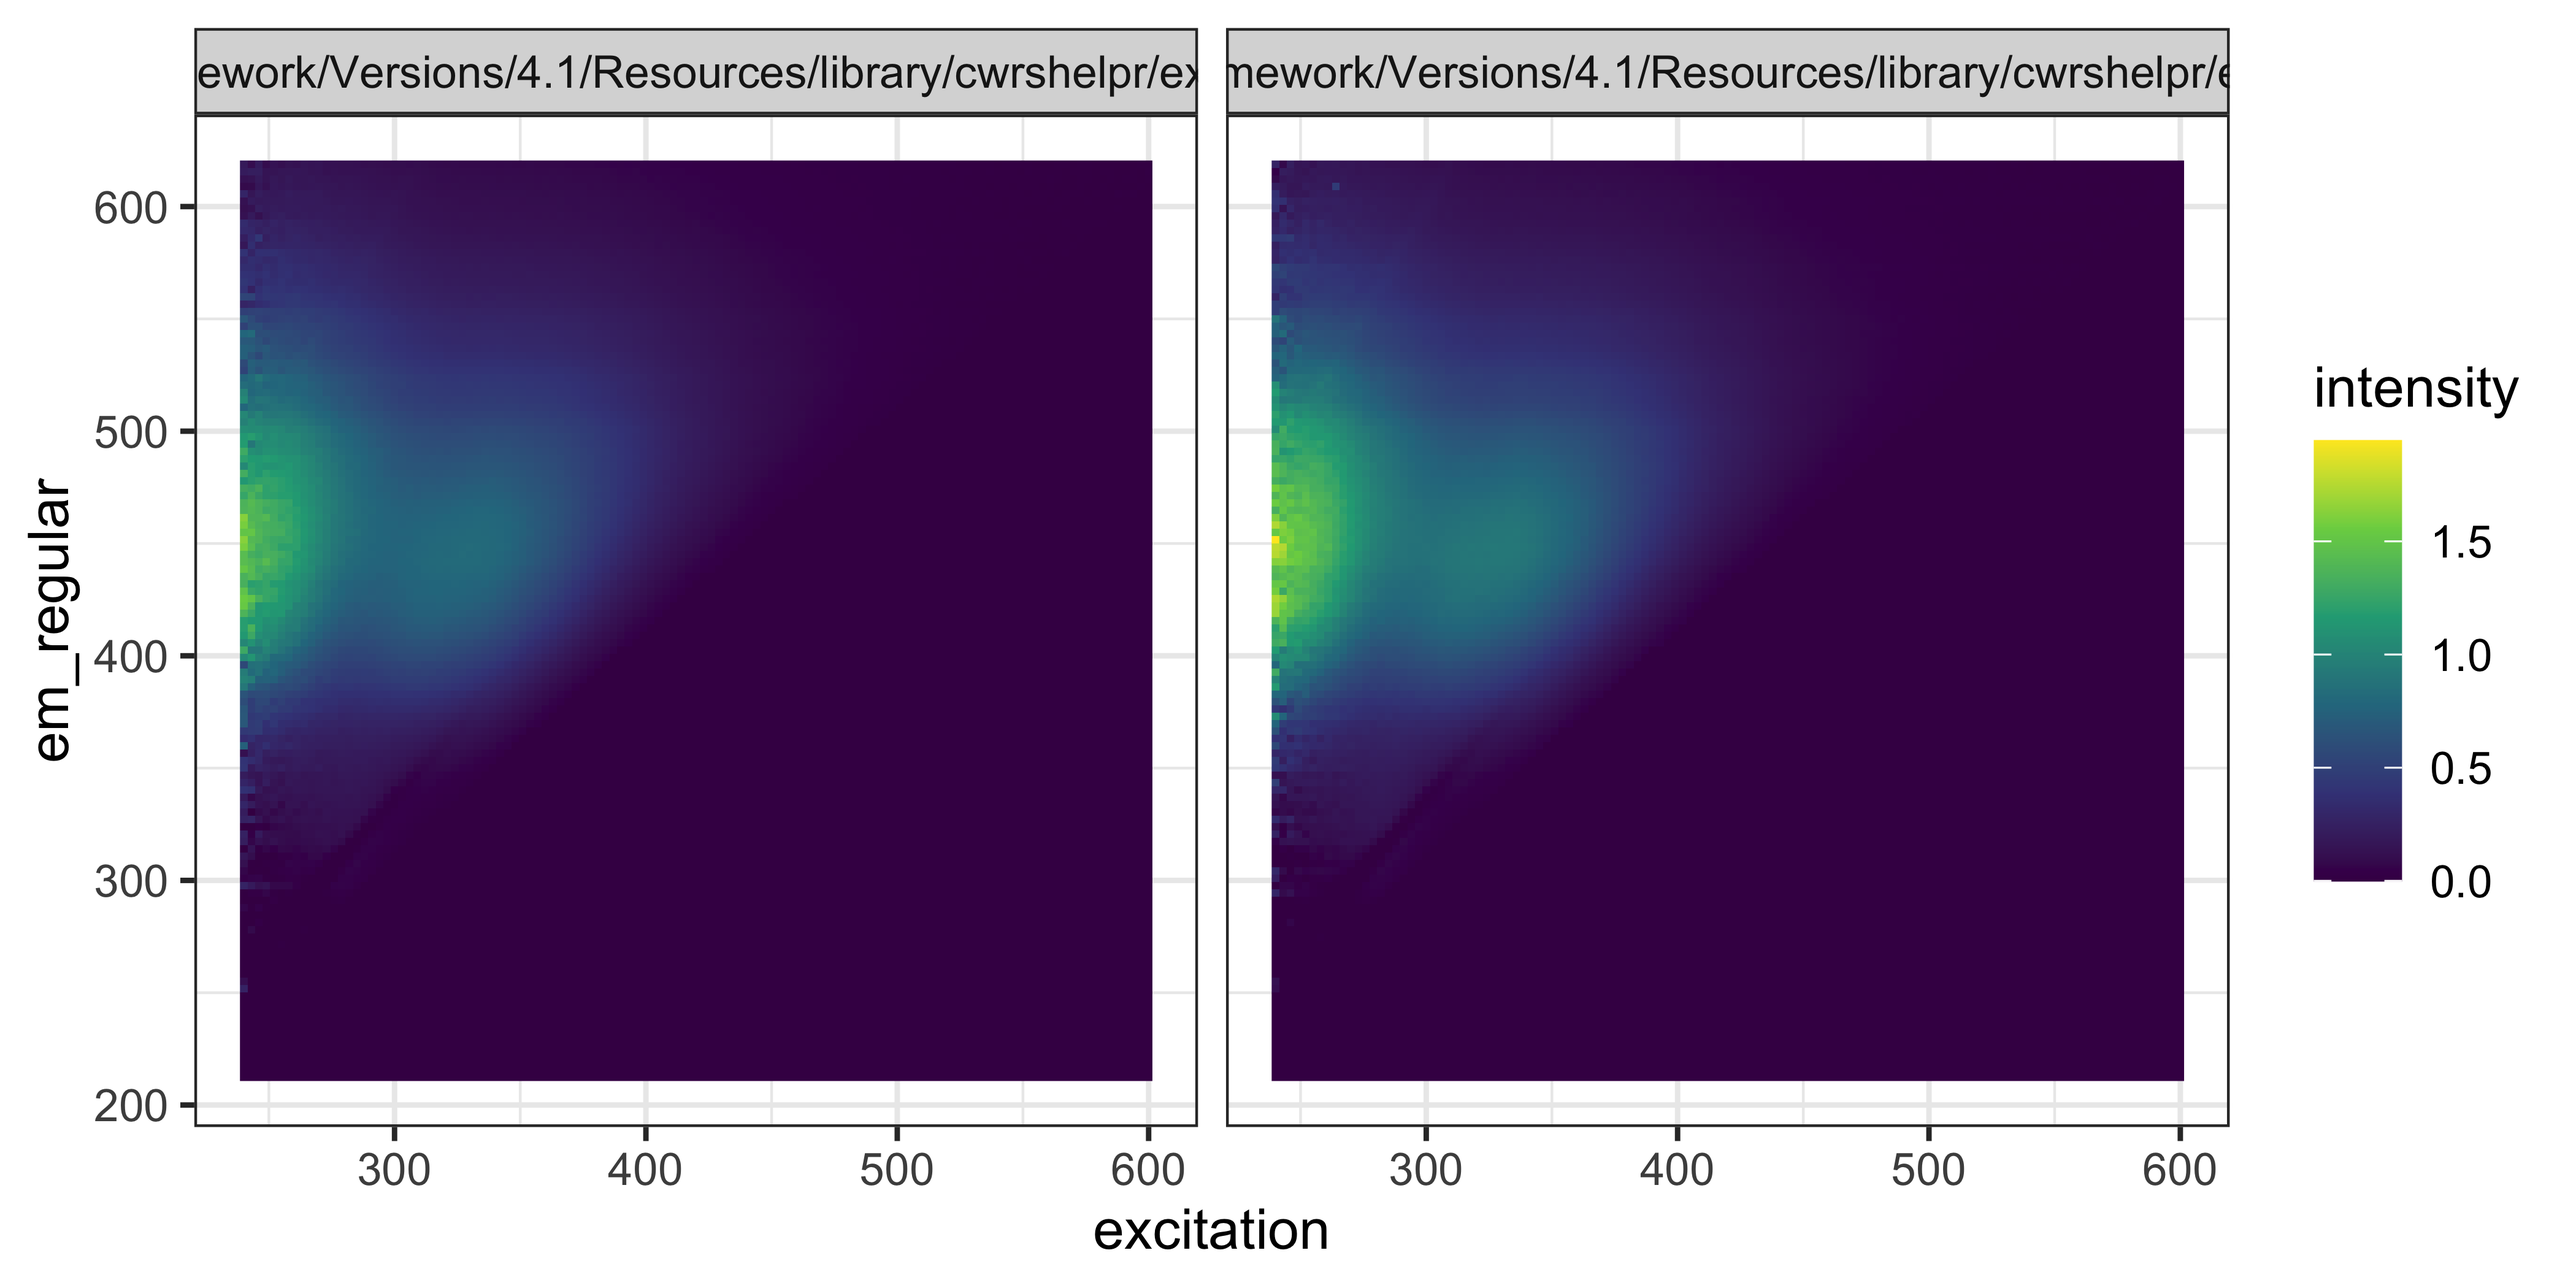
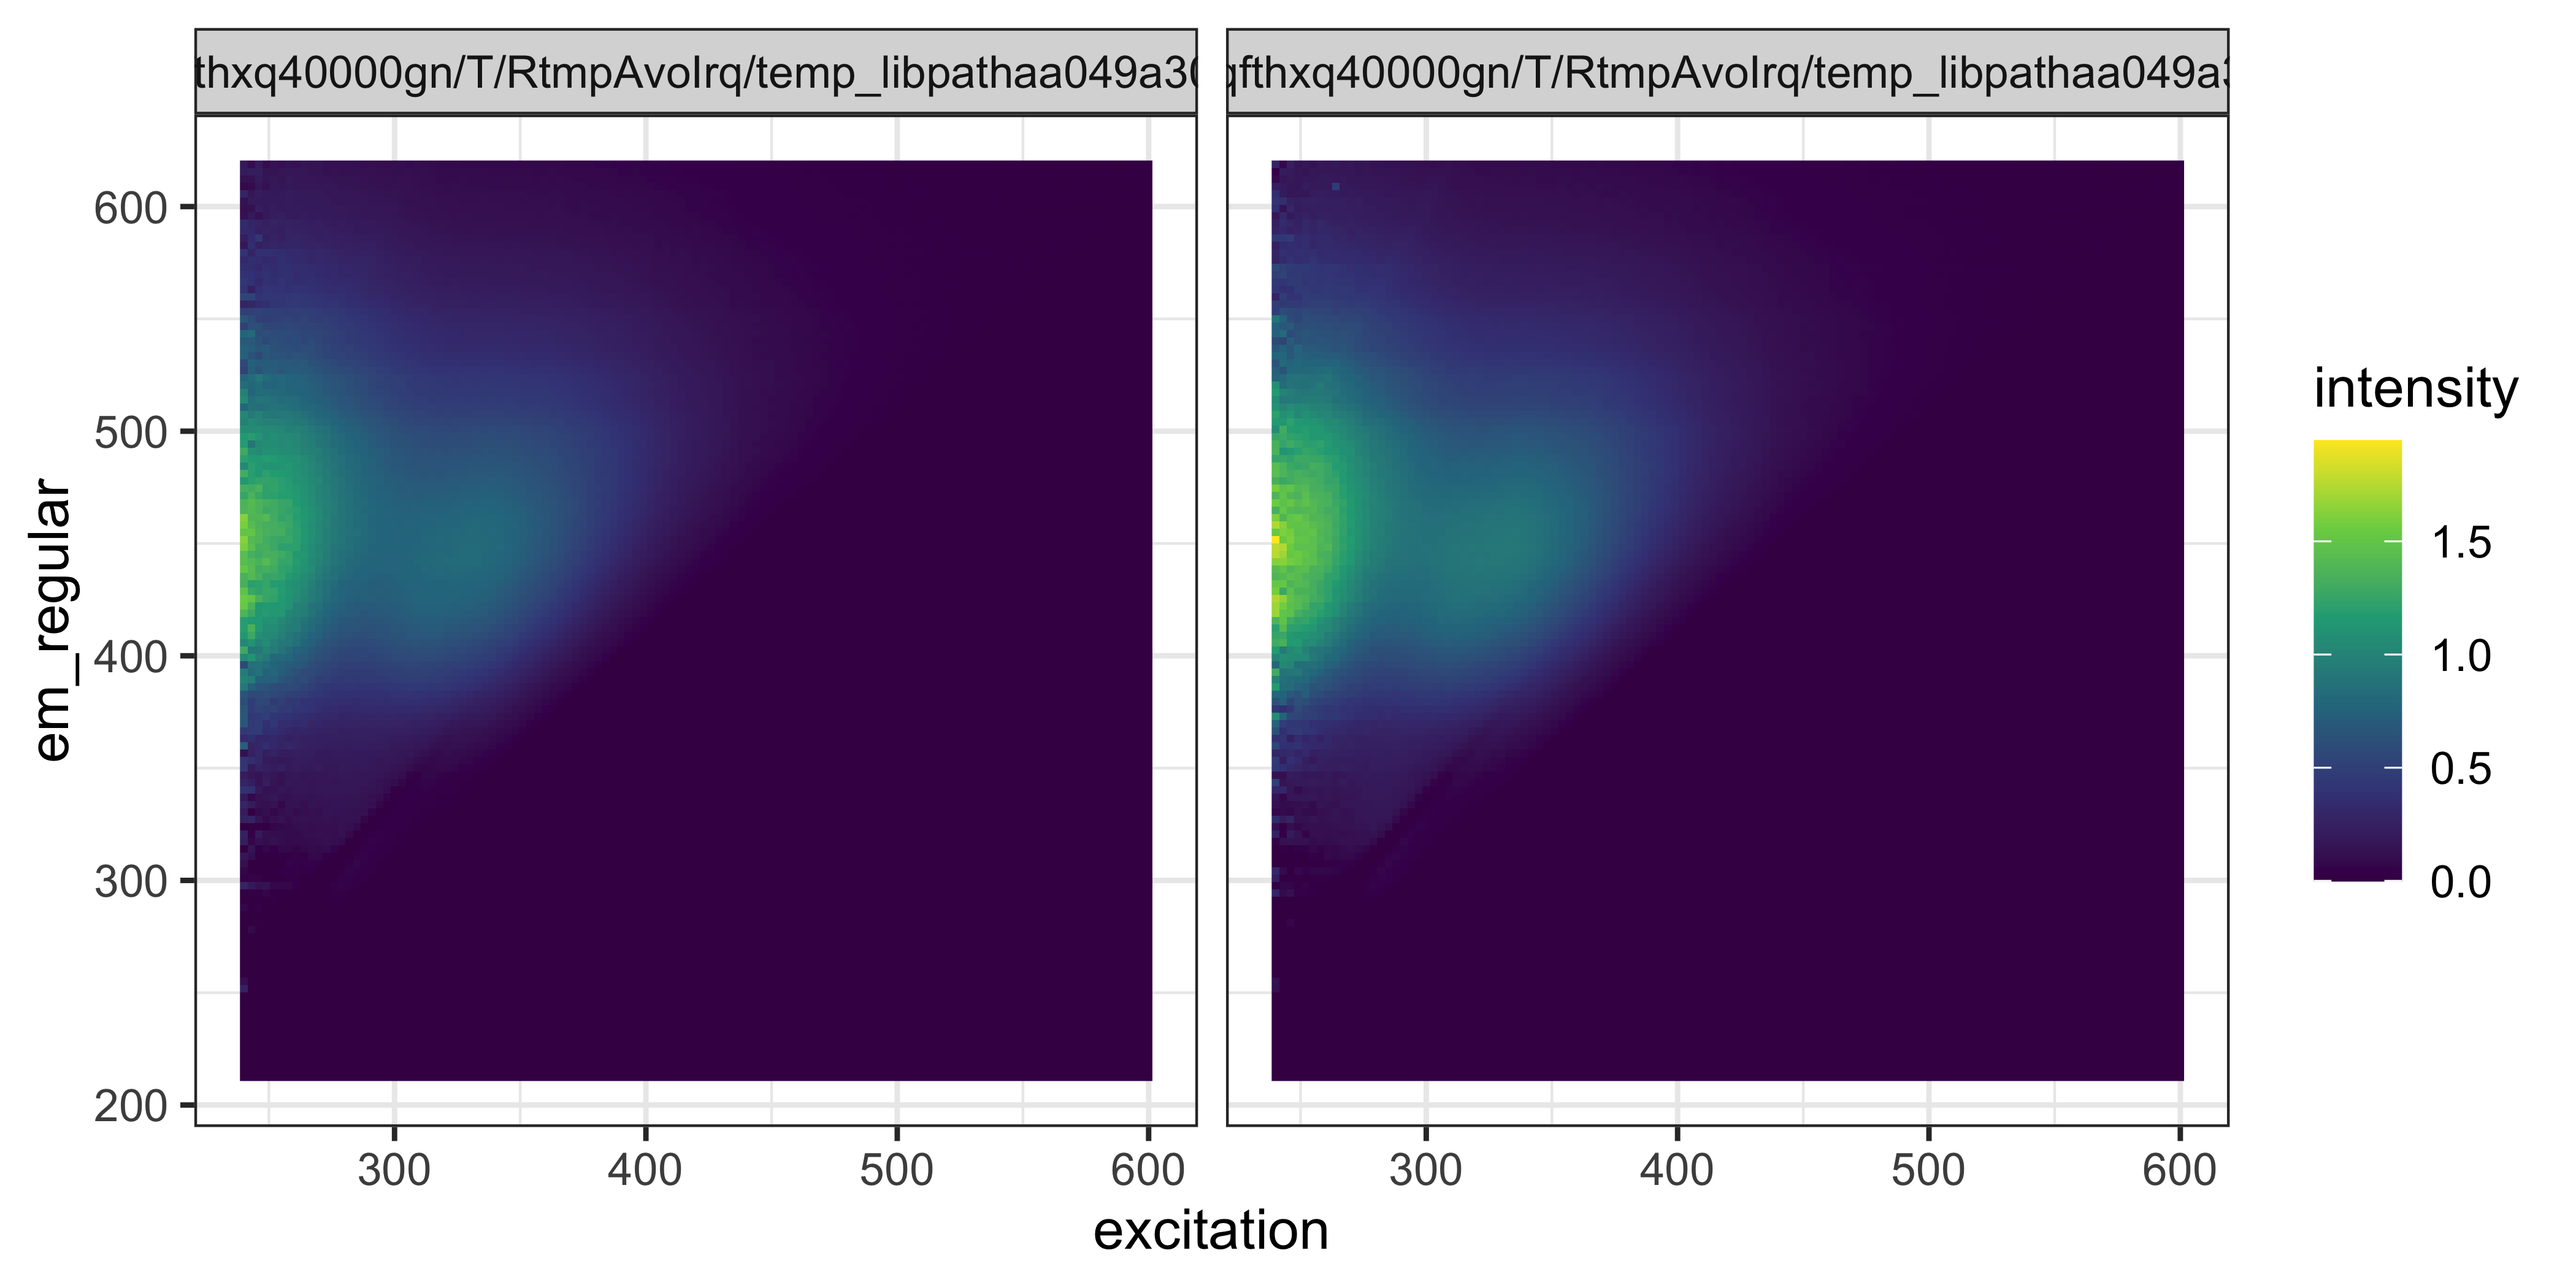
updated github actions yaml

Changed region(s): [[0.0624, 0.031, 0.8733, 0.0929]]

diff --git a/README.md b/README.md
@@ -8,6 +8,7 @@
 [![R-CMD-check](https://github.com/bentrueman/cwrshelpr/workflows/R-CMD-check/badge.svg)](https://github.com/bentrueman/cwrshelpr/actions)
 [![Codecov test
 coverage](https://codecov.io/gh/bentrueman/cwrshelpr/branch/main/graph/badge.svg)](https://app.codecov.io/gh/bentrueman/cwrshelpr?branch=main)
+[![R-CMD-check](https://github.com/bentrueman/cwrshelpr/actions/workflows/R-CMD-check.yaml/badge.svg)](https://github.com/bentrueman/cwrshelpr/actions/workflows/R-CMD-check.yaml)
 <!-- badges: end -->
 
 `cwrshelpr` provides a collection of functions for data analysis tasks
@@ -63,19 +64,20 @@ files[1:2] %>%
   set_names() %>% 
   map_dfr(read_icp, .id = "file") # read and clean multiple files
 #> # A tibble: 2,439 × 7
-#>    file                 sample_name estimate_type isotope element    value unit 
-#>    <chr>                <chr>       <chr>         <chr>   <chr>      <dbl> <chr>
-#>  1 /Library/Frameworks… Wash        Concentratio… 27      Al       0.115   µg/l 
-#>  2 /Library/Frameworks… Wash        Concentratio… 31      P       -0.0408  µg/l 
-#>  3 /Library/Frameworks… Wash        Concentratio… 45      Sc      99.6     %    
-#>  4 /Library/Frameworks… Wash        Concentratio… 55      Mn      -0.00621 µg/l 
-#>  5 /Library/Frameworks… Wash        Concentratio… 56      Fe       0.0124  µg/l 
-#>  6 /Library/Frameworks… Wash        Concentratio… 65      Cu       0.0396  µg/l 
-#>  7 /Library/Frameworks… Wash        Concentratio… 115     In      99.2     %    
-#>  8 /Library/Frameworks… Wash        Concentratio… 159     Tb      98.1     %    
-#>  9 /Library/Frameworks… Wash        Concentratio… 208     Pb       0.0497  µg/l 
-#> 10 /Library/Frameworks… Wash        Concentratio… 27      Al       0.133   µg/l 
-#> # … with 2,429 more rows
+#>    file                           sampl…¹ estim…² isotope element    value unit 
+#>    <chr>                          <chr>   <chr>   <chr>   <chr>      <dbl> <chr>
+#>  1 /private/var/folders/fy/v4w9p… Wash    Concen… 27      Al       0.115   µg/l 
+#>  2 /private/var/folders/fy/v4w9p… Wash    Concen… 31      P       -0.0408  µg/l 
+#>  3 /private/var/folders/fy/v4w9p… Wash    Concen… 45      Sc      99.6     %    
+#>  4 /private/var/folders/fy/v4w9p… Wash    Concen… 55      Mn      -0.00621 µg/l 
+#>  5 /private/var/folders/fy/v4w9p… Wash    Concen… 56      Fe       0.0124  µg/l 
+#>  6 /private/var/folders/fy/v4w9p… Wash    Concen… 65      Cu       0.0396  µg/l 
+#>  7 /private/var/folders/fy/v4w9p… Wash    Concen… 115     In      99.2     %    
+#>  8 /private/var/folders/fy/v4w9p… Wash    Concen… 159     Tb      98.1     %    
+#>  9 /private/var/folders/fy/v4w9p… Wash    Concen… 208     Pb       0.0497  µg/l 
+#> 10 /private/var/folders/fy/v4w9p… Wash    Concen… 27      Al       0.133   µg/l 
+#> # … with 2,429 more rows, and abbreviated variable names ¹sample_name,
+#> #   ²estimate_type
 ```
 
 Use the `read_lims()` function to read/clean files in the new LIMS
@@ -108,6 +110,7 @@ if the corrected first order Rayleigh scattering line includes negative
 intensities.
 
 ``` r
+
 files <- list.files(
    path = system.file("extdata", package = "cwrshelpr"), # replace this line with the path to your data
    full.names = TRUE,
@@ -138,6 +141,7 @@ others). Use the column `em_regular` to avoid horizontal striping due to
 irregular spacing of the `emission` wavelengths.
 
 ``` r
+
 feem_dat %>% 
   ggplot(aes(excitation, em_regular, fill = intensity)) +
   facet_wrap(vars(file)) + 
@@ -150,11 +154,14 @@ feem_dat %>%
 Here is an example using `ggplot2::stat_contour(geom = "polygon")`:
 
 ``` r
+
 feem_dat %>% 
   ggplot(aes(excitation, em_regular, z = intensity, fill = stat(level))) +
   facet_wrap(vars(file)) + 
   stat_contour(geom = "polygon") +
   scale_fill_viridis_c("intensity")
+#> Warning: `stat(level)` was deprecated in ggplot2 3.4.0.
+#> ℹ Please use `after_stat(level)` instead.
 ```
 
 <img src="man/figures/README-feem-plot-2-1.png" width="100%" />
@@ -164,6 +171,7 @@ uses the regions defined in Chen et al. (2003) by default, but you can
 supply your own as well.
 
 ``` r
+
 feem_dat %>% 
   group_by(file) %>% 
   nest() %>% 
@@ -171,26 +179,28 @@ feem_dat %>%
   mutate(regions = map(data, integrate_regions)) %>% 
   unnest(regions)
 #> # A tibble: 12 × 8
-#>    file                    data     name  ex_min ex_max em_min em_max integrated
-#>    <chr>                   <list>   <chr>  <dbl>  <dbl>  <dbl>  <dbl>      <dbl>
-#>  1 /Library/Frameworks/R.… <tibble> regi…    200    250    250    330       46.6
-#>  2 /Library/Frameworks/R.… <tibble> regi…    200    250    250    380      247. 
-#>  3 /Library/Frameworks/R.… <tibble> regi…    200    250    250    550     2421. 
-#>  4 /Library/Frameworks/R.… <tibble> regi…    250    340    340    380      745. 
-#>  5 /Library/Frameworks/R.… <tibble> regi…    250    400    400    550    13312. 
-#>  6 /Library/Frameworks/R.… <tibble> total     NA     NA     NA     NA    21597. 
-#>  7 /Library/Frameworks/R.… <tibble> regi…    200    250    250    330       46.1
-#>  8 /Library/Frameworks/R.… <tibble> regi…    200    250    250    380      261. 
-#>  9 /Library/Frameworks/R.… <tibble> regi…    200    250    250    550     2687. 
-#> 10 /Library/Frameworks/R.… <tibble> regi…    250    340    340    380      827. 
-#> 11 /Library/Frameworks/R.… <tibble> regi…    250    400    400    550    14921. 
-#> 12 /Library/Frameworks/R.… <tibble> total     NA     NA     NA     NA    24147.
+#>    file                       data     name  ex_min ex_max em_min em_max integ…¹
+#>    <chr>                      <list>   <chr>  <dbl>  <dbl>  <dbl>  <dbl>   <dbl>
+#>  1 /private/var/folders/fy/v… <tibble> regi…    200    250    250    330    46.6
+#>  2 /private/var/folders/fy/v… <tibble> regi…    200    250    250    380   247. 
+#>  3 /private/var/folders/fy/v… <tibble> regi…    200    250    250    550  2421. 
+#>  4 /private/var/folders/fy/v… <tibble> regi…    250    340    340    380   745. 
+#>  5 /private/var/folders/fy/v… <tibble> regi…    250    400    400    550 13312. 
+#>  6 /private/var/folders/fy/v… <tibble> total     NA     NA     NA     NA 21597. 
+#>  7 /private/var/folders/fy/v… <tibble> regi…    200    250    250    330    46.1
+#>  8 /private/var/folders/fy/v… <tibble> regi…    200    250    250    380   261. 
+#>  9 /private/var/folders/fy/v… <tibble> regi…    200    250    250    550  2687. 
+#> 10 /private/var/folders/fy/v… <tibble> regi…    250    340    340    380   827. 
+#> 11 /private/var/folders/fy/v… <tibble> regi…    250    400    400    550 14921. 
+#> 12 /private/var/folders/fy/v… <tibble> total     NA     NA     NA     NA 24147. 
+#> # … with abbreviated variable name ¹integrated
 ```
 
 The humification and biological indices of each FEEM, as described in
 Tedetti et al. (2011), can be calculated using `calculate_indices()`:
 
 ``` r
+
 feem_dat %>% 
   group_by(file) %>% 
   nest() %>% 
@@ -200,10 +210,10 @@ feem_dat %>%
 #> # A tibble: 4 × 4
 #>   file                                                     data     param  value
 #>   <chr>                                                    <list>   <chr>  <dbl>
-#> 1 /Library/Frameworks/R.framework/Versions/4.1/Resources/… <tibble> bix    0.517
-#> 2 /Library/Frameworks/R.framework/Versions/4.1/Resources/… <tibble> hix   14.6  
-#> 3 /Library/Frameworks/R.framework/Versions/4.1/Resources/… <tibble> bix    0.508
-#> 4 /Library/Frameworks/R.framework/Versions/4.1/Resources/… <tibble> hix   13.6
+#> 1 /private/var/folders/fy/v4w9p72s7c996w8l8qfthxq40000gn/… <tibble> bix    0.517
+#> 2 /private/var/folders/fy/v4w9p72s7c996w8l8qfthxq40000gn/… <tibble> hix   14.6  
+#> 3 /private/var/folders/fy/v4w9p72s7c996w8l8qfthxq40000gn/… <tibble> bix    0.508
+#> 4 /private/var/folders/fy/v4w9p72s7c996w8l8qfthxq40000gn/… <tibble> hix   13.6
 ```
 
 ## Additional resources
